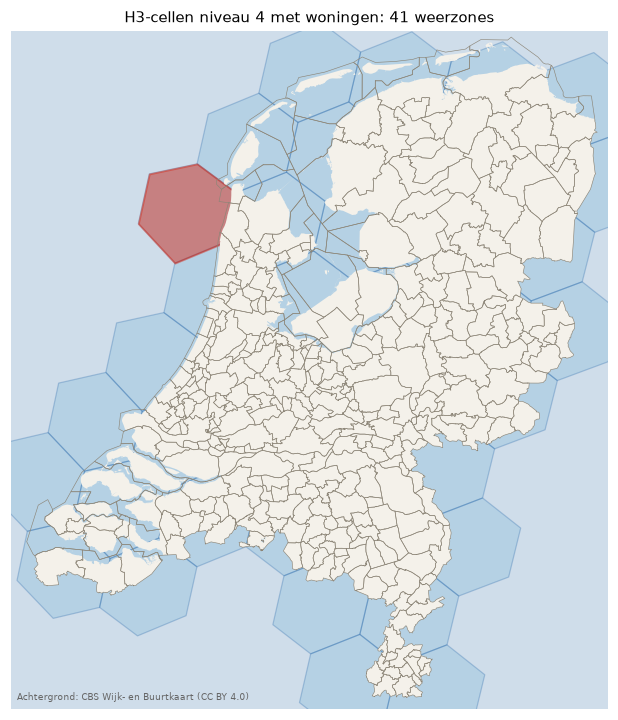
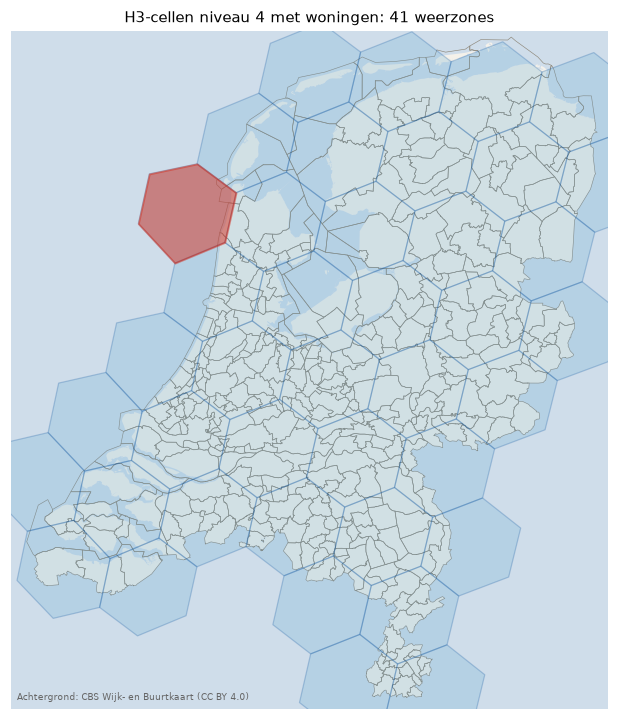
Kaarten: achtergrond stond vóór de kleuren, niet erachter
PolyCollection en PathPatch hebben allebei standaard zorder 1; bij gelijke zorder wint wie het
laatst is toegevoegd. Omdat kaart() het land ná de kleurvlakken van de aanroeper toevoegde,
verstopte het opake land de kleur overal waar ze overlapten (zichtbaar geverifieerd: het meest
voorkomende pixel was puur land, #F4F1EA, in plaats van een menging met de celkleur). Water,
land en gemeentegrenzen krijgen nu een negatieve zorder, zodat de achtergrond altijd onderaan
staat, ongeacht de aanroepvolgorde — zoals in het Windows-venster, waar de kaart sowieso als
eerste wordt getekend.

Claude-Session: https://claude.ai/code/session_01QRUPtADgdbmmHDF2NFWH3P

diff --git a/docs/kaarten/maak_kaarten.py b/docs/kaarten/maak_kaarten.py
@@ -85,16 +85,21 @@ def kaart(ax, lonlat_bbox, titel: str) -> None:
     x1, y1 = naar_merc(lonlat_bbox[2], lonlat_bbox[3])
     ax.set_xlim(x0, x1)
     ax.set_ylim(y0, y1)
-    # set_axis_off() onderdrukt ook de eigen achtergrondkleur van de as: het water expliciet
+    # set_axis_off() onderdrukt ook de eigen achtergrondkleur van de as: het water expliciet.
+    # Lage, negatieve zorder: PolyCollection en PathPatch hebben allebei standaard zorder=1, dus
+    # bij gelijke zorder wint wie het laatst is toegevoegd (het land, hier) — dat verstopte de
+    # kleurvlakken die de aanroeper vóór kaart() al had toegevoegd. Met een lage zorder staat de
+    # achtergrond altijd onderaan, wat de aanroepvolgorde ook is (zoals in het Windows-venster,
+    # waar de kaart sowieso als eerste getekend wordt).
     ax.add_patch(Rectangle((x0, y0), x1 - x0, y1 - y0, facecolor=WATER, edgecolor="none",
-                           zorder=0))
+                           zorder=-3))
     if LAND_PATH is not None:
-        ax.add_patch(PathPatch(LAND_PATH, facecolor=LAND, edgecolor="none", zorder=1))
+        ax.add_patch(PathPatch(LAND_PATH, facecolor=LAND, edgecolor="none", zorder=-2))
     if GRENZEN is not None:
         for r in GRENZEN["ringen"]:
             for ring in json.loads(r):
                 pts = np.array([naar_merc(lo, la) for lo, la in ring])
-                ax.plot(pts[:, 0], pts[:, 1], color=RAND, linewidth=0.4, zorder=1.5)
+                ax.plot(pts[:, 0], pts[:, 1], color=RAND, linewidth=0.4, zorder=-1)
     ax.set_axis_off()
     ax.set_title(titel, fontsize=10)
     ax.text(0.01, 0.01, BRON, transform=ax.transAxes, fontsize=6, color="#666666", va="bottom")
